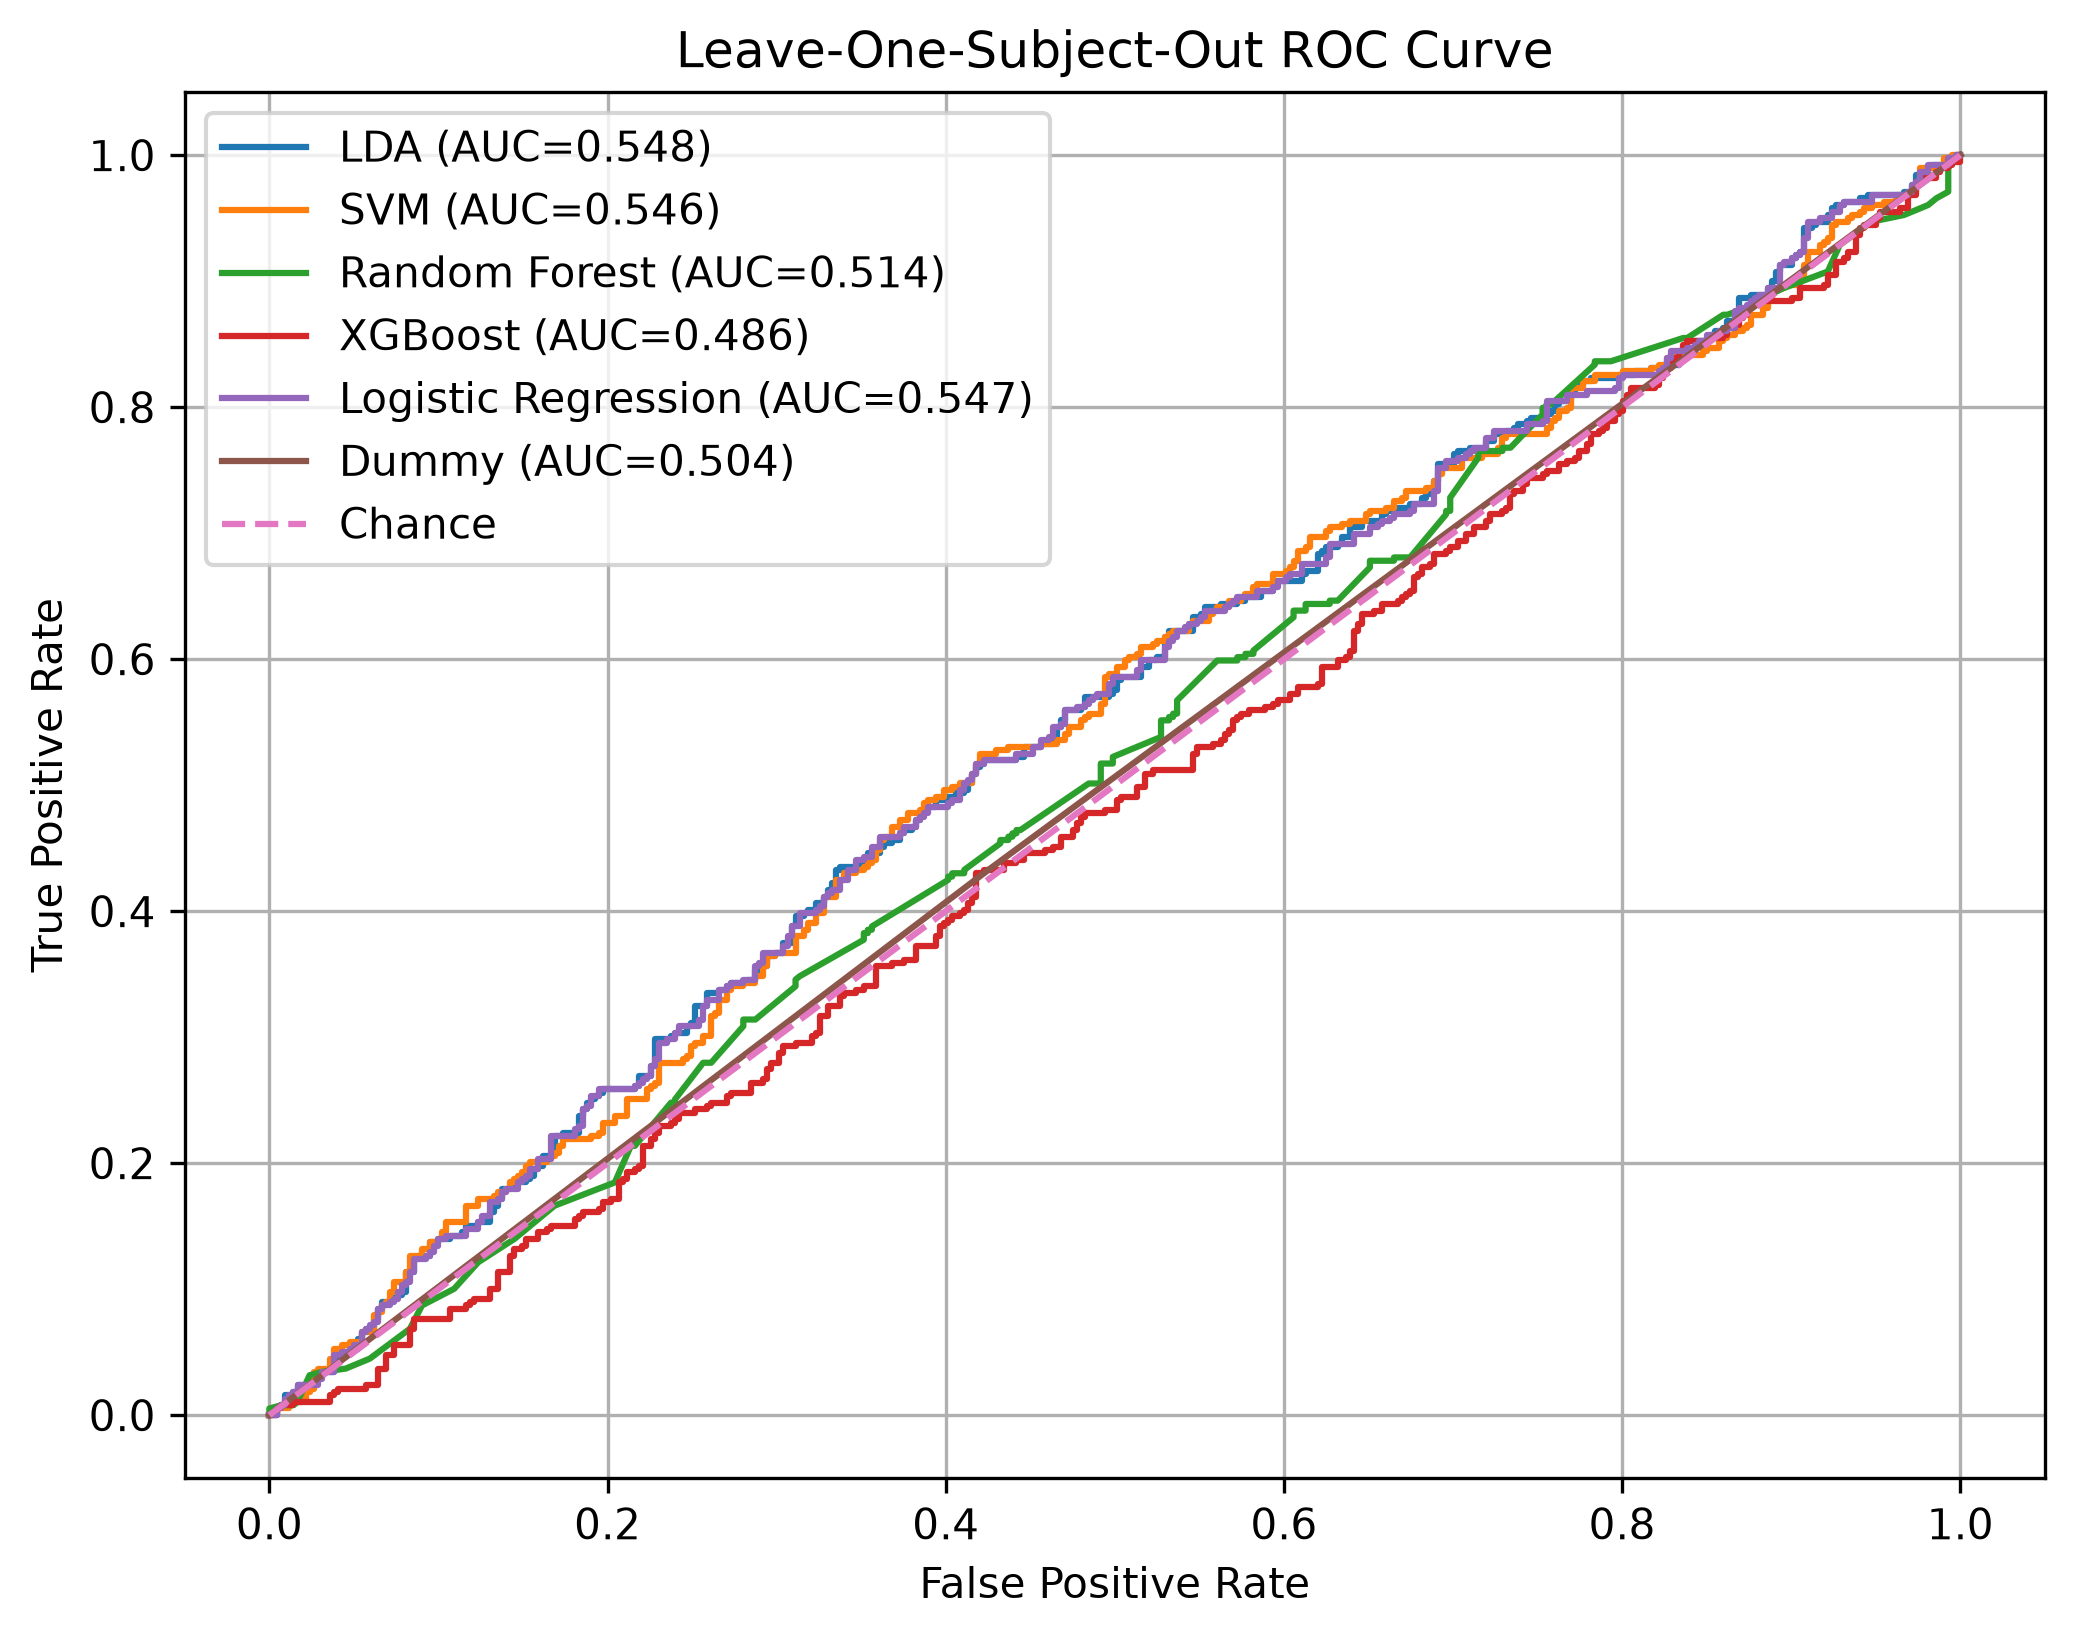
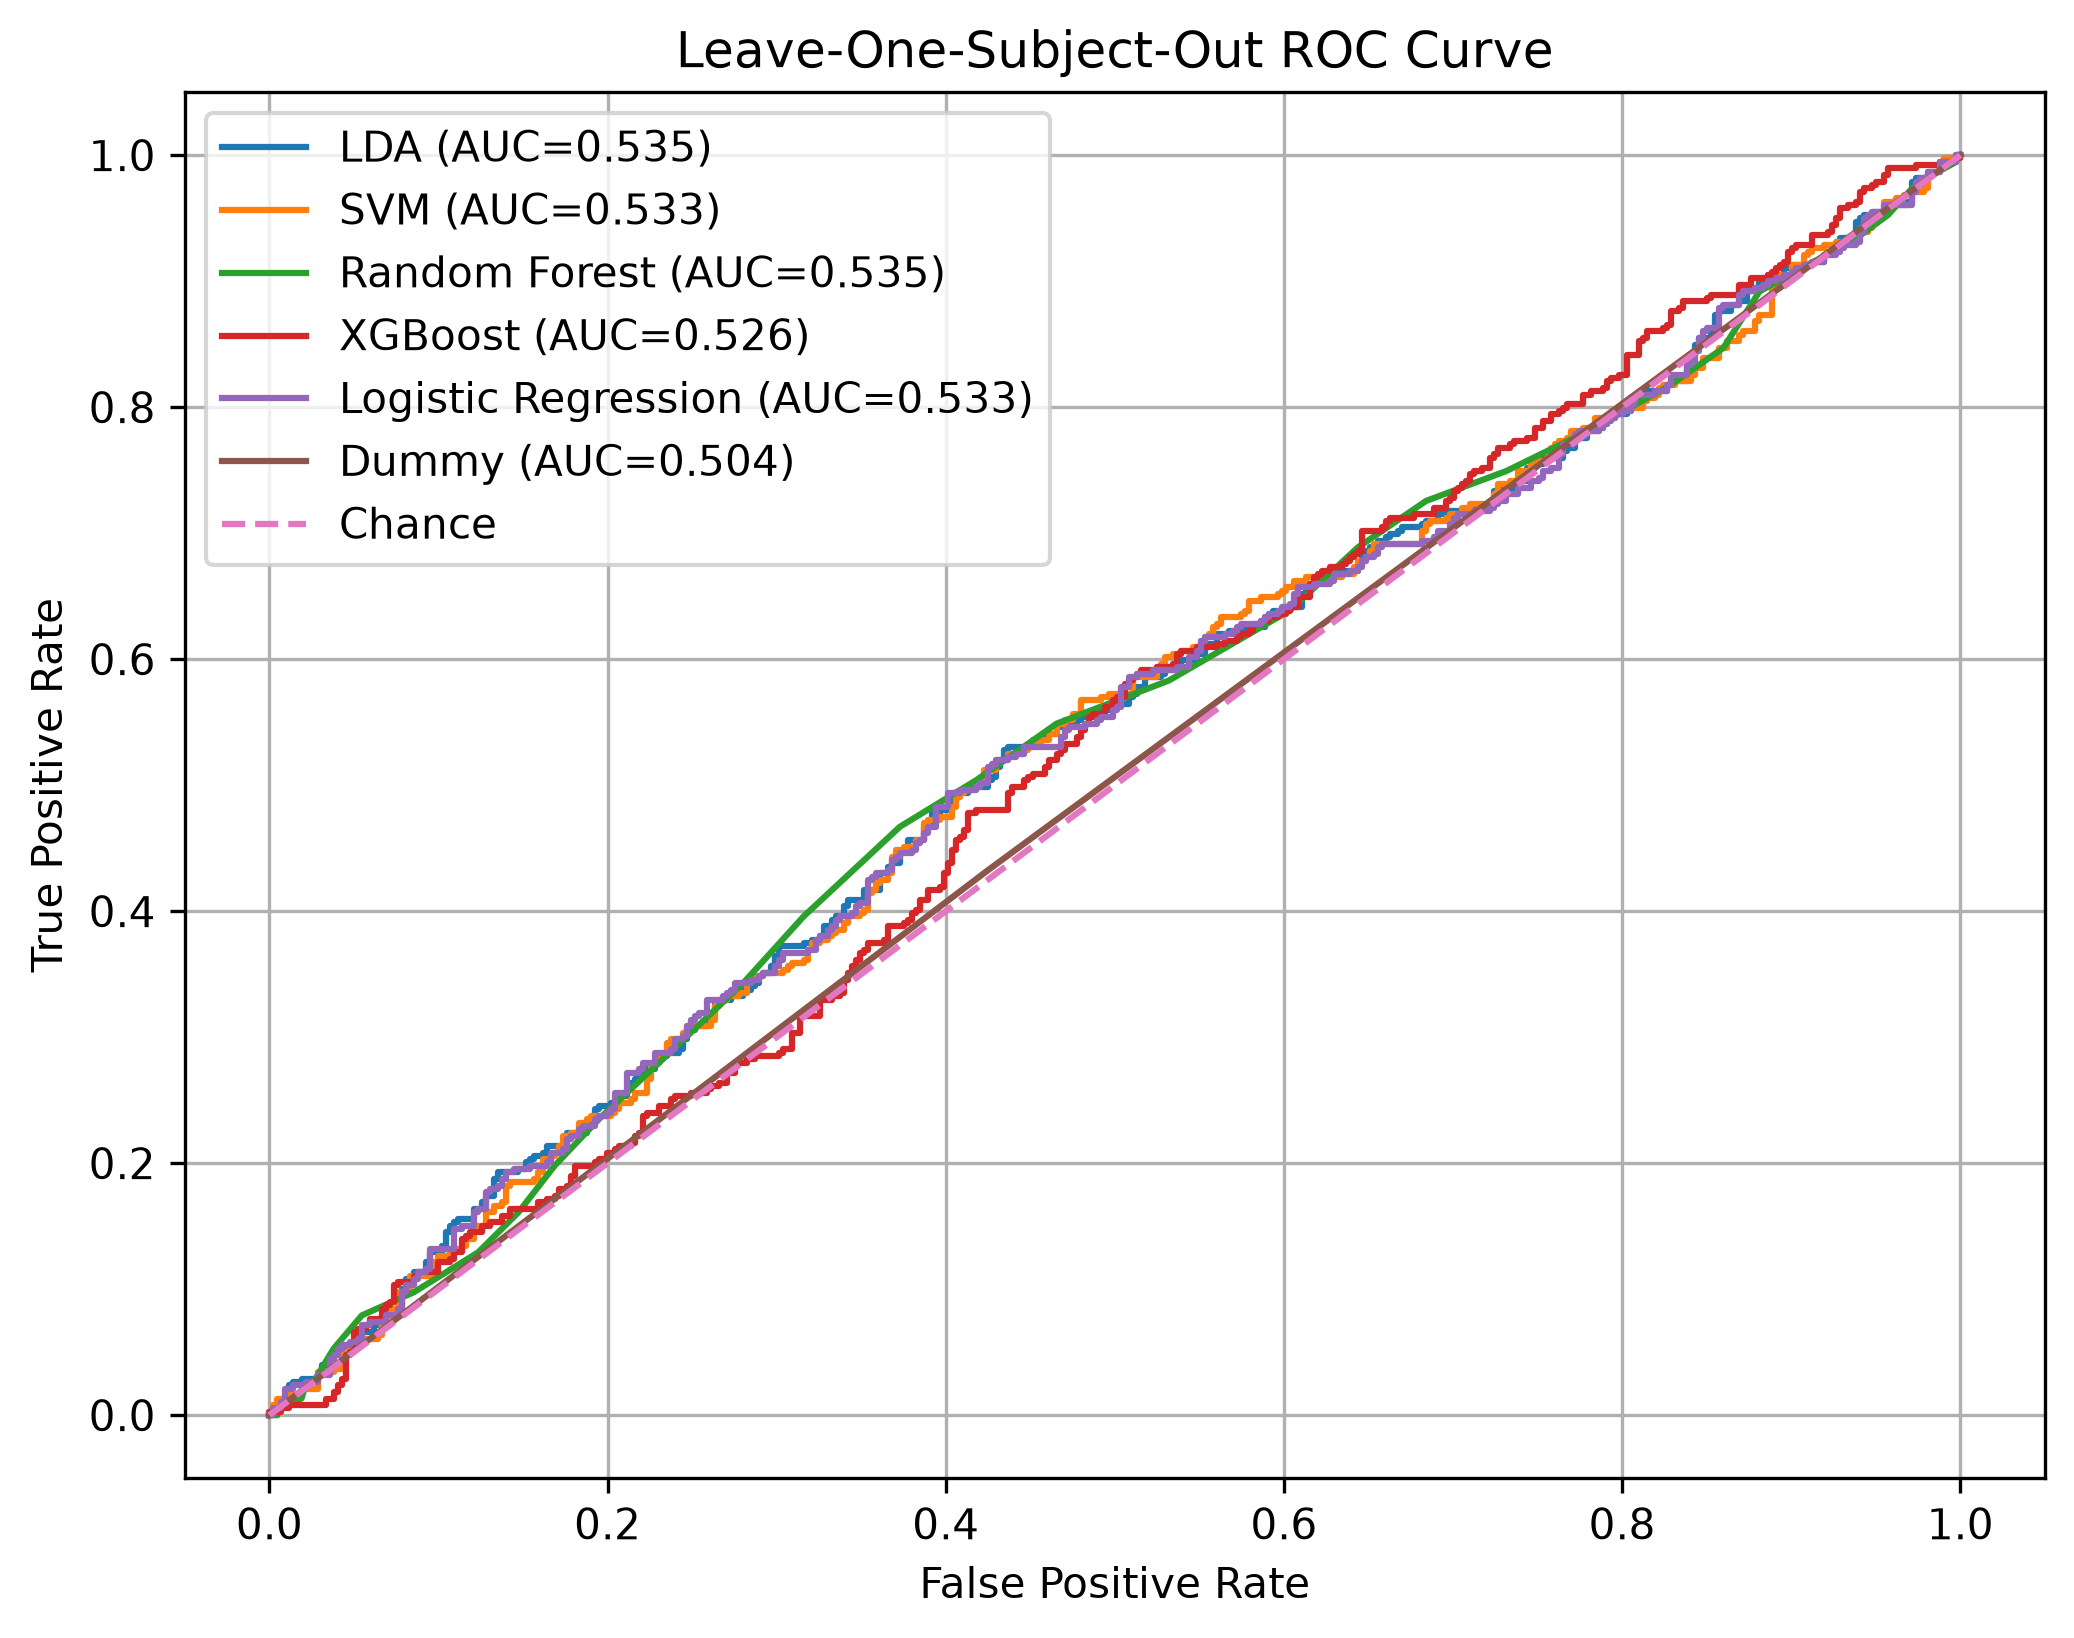
Changed no. of trees to try changing time

diff --git a/id_ed_stuff.py b/id_ed_stuff.py
@@ -253,7 +253,7 @@ def get_shap_top_features(X_train, y_train, feature_names, n_features=10):
 
     #XGBoost used to get SHAP Values
     model = RandomForestClassifier(
-    n_estimators=200,
+    n_estimators=50,
     random_state=42
     )
     model.fit(X_train, y_train)
